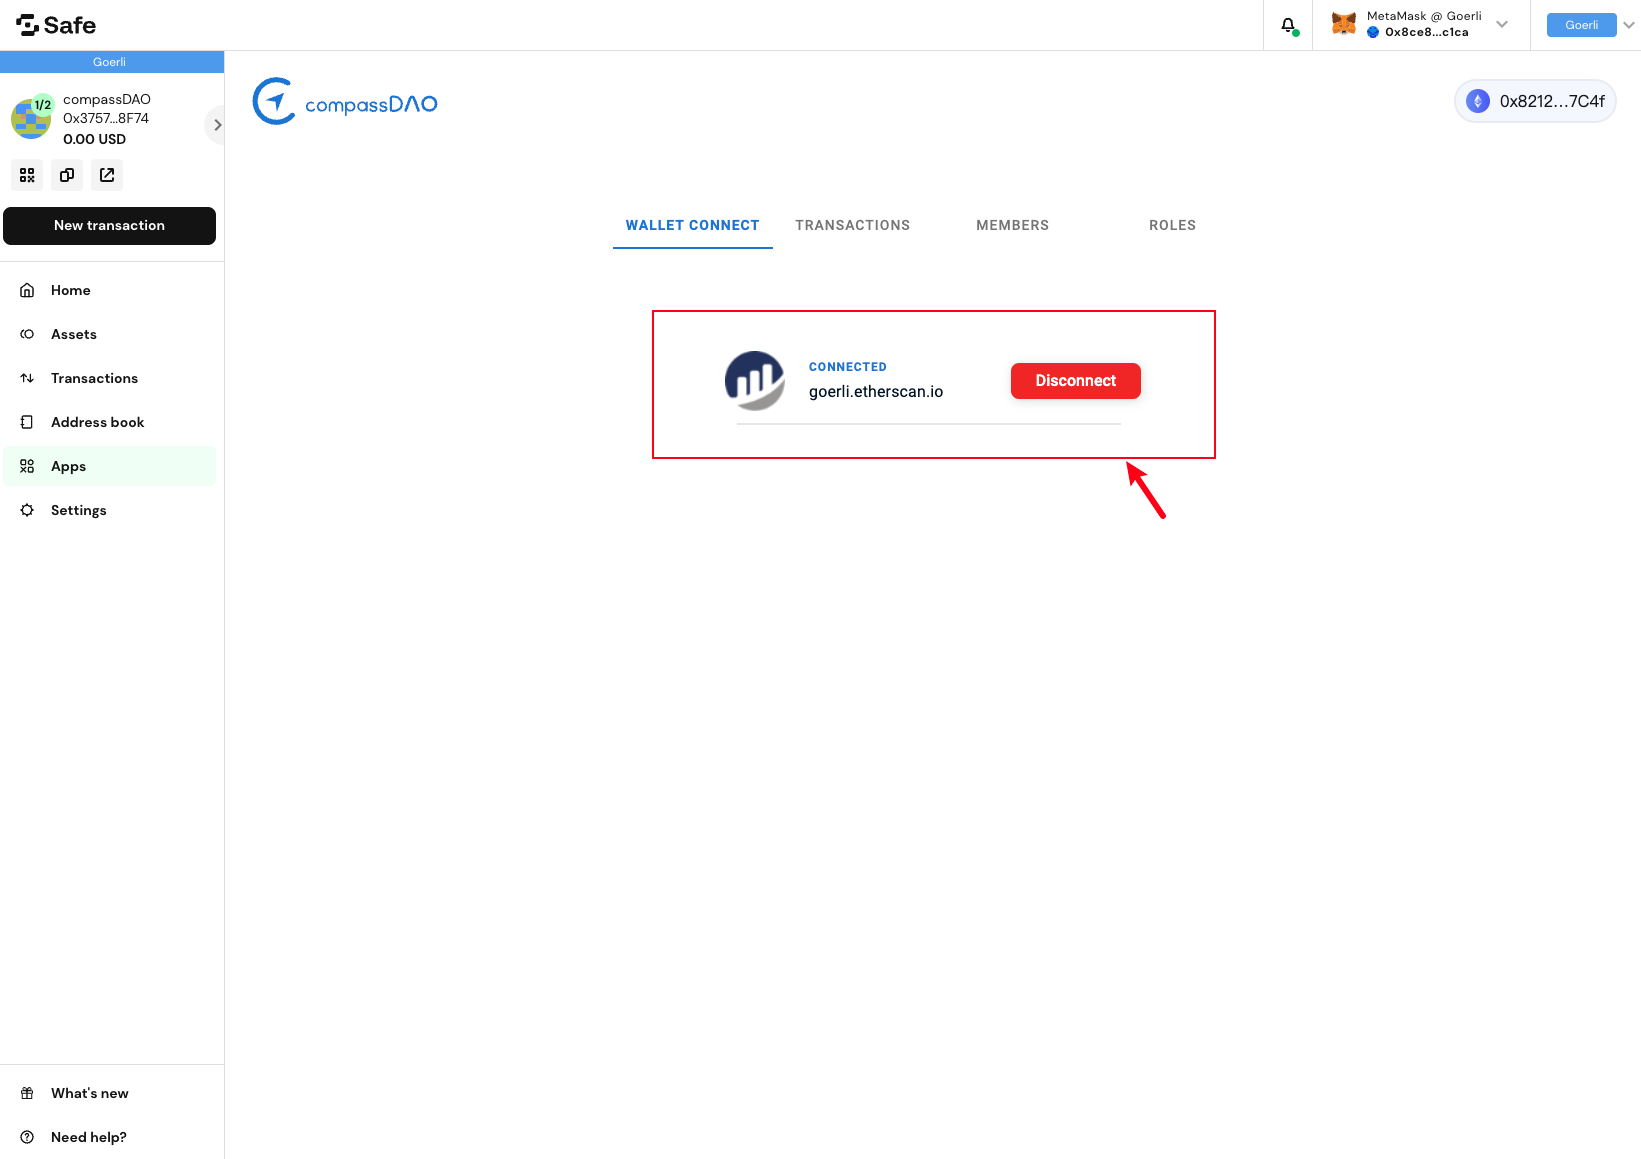
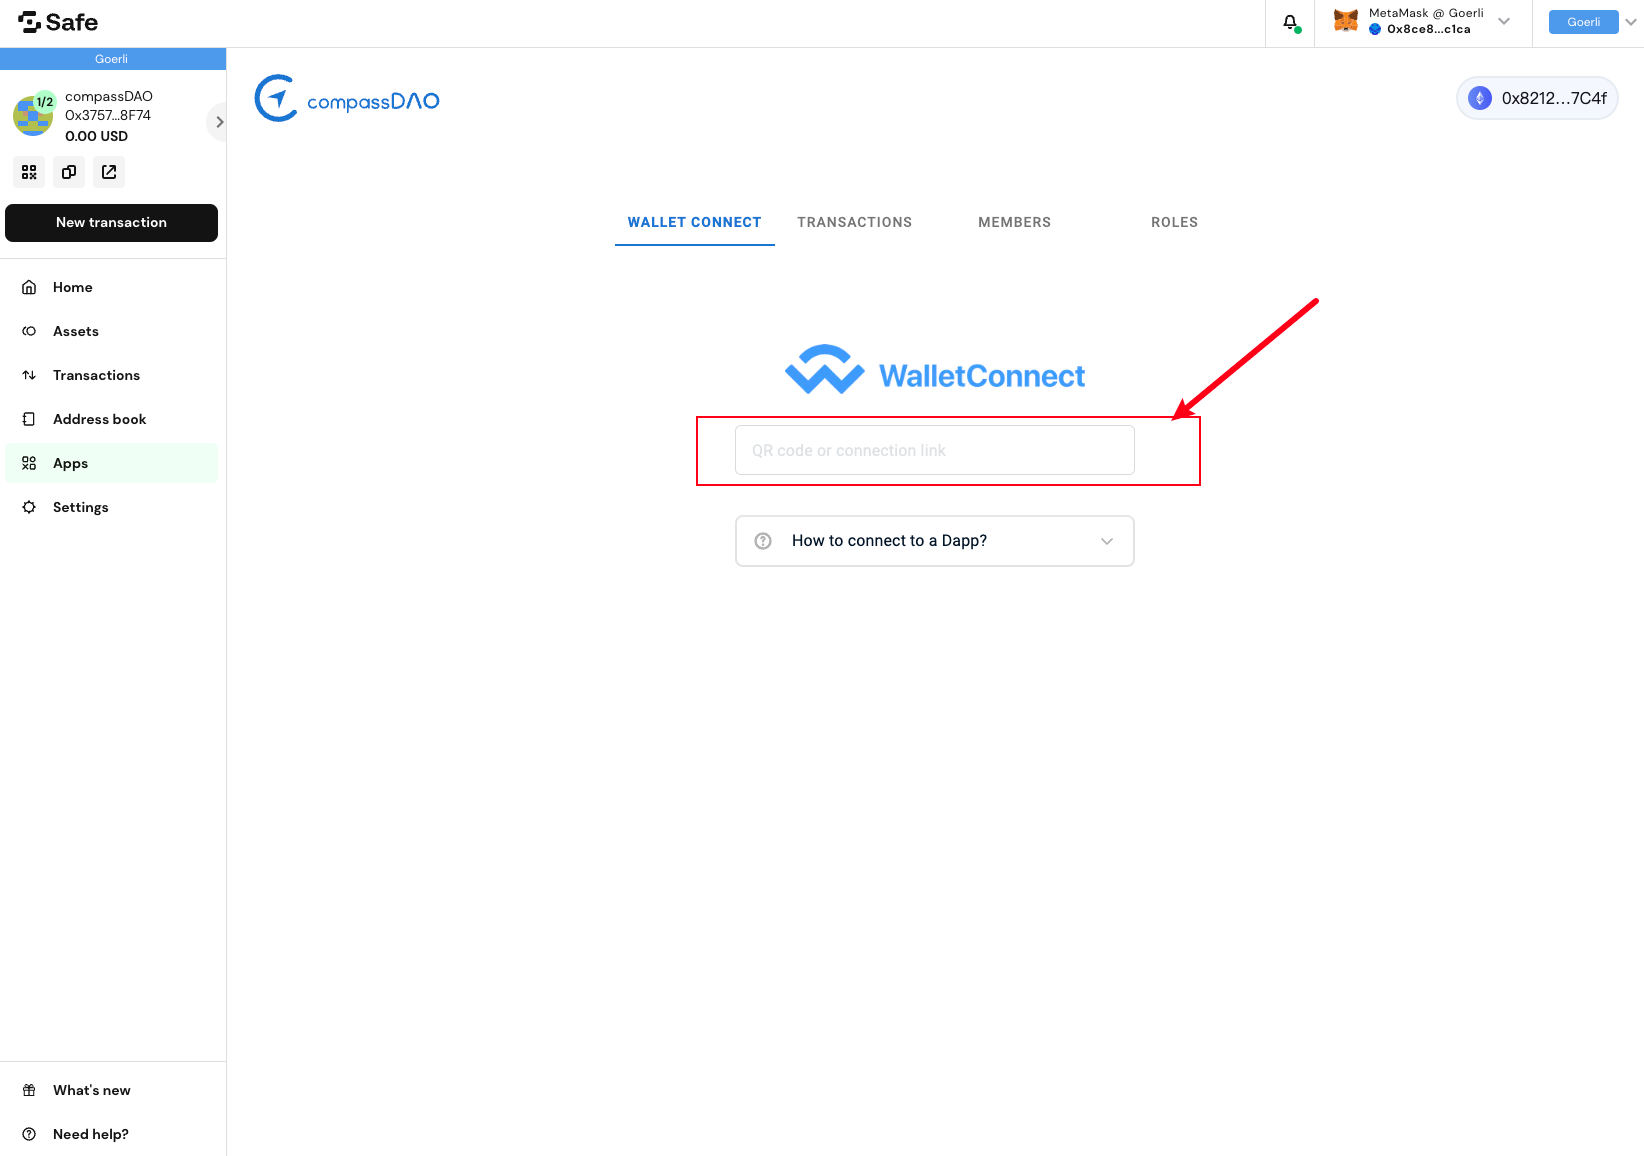
GitBook: [#44] No subject

diff --git a/how-to-use/compasssafe/README.md b/how-to-use/compasssafe/README.md
@@ -1,10 +1,10 @@
 # compassSafe
 
-compassStats is an&#x20;
+compassSafe is a protocol based on [Gnosis Safe](https://help.gnosis-safe.io/en/articles/3876456-what-is-gnosis-safe). As the most popular smart contract wallet, Safe supports standard multi-signature, and supports their users to enable advanced access-control logic with [Module](https://help.gnosis-safe.io/en/articles/4934378-what-is-a-module).
 
-&#x20;open data platform to create and share on-chain data analytics with javascript. Developers can customize preferred on-chain data using javascript for encapsulation, and everyone can consume the data. Currently, we support data monitoring and alerts, more features like API, SDK, Dashboard are on the way.
 
-Note: The product’s an early stage, we are currently working hard on updating the product and implementing more features. Please feel free to leave any suggestions and feedback in the Google Form here: [CompassStats feedback](https://forms.gle/FRWNXLsm4Ln27SSSA)
 
-## Try the product here: [https://compassdao.com](https://compassdao.com)
+Note: The product’s an early stage, we are currently working hard on improving the product and implementing more features. Please feel free to leave any suggestions and feedback in the Google Form here:&#x20;
+
+## The app link:&#x20;
 

diff --git a/how-to-use/compasssafe/interact-with-dapps.md b/how-to-use/compasssafe/interact-with-dapps.md
@@ -14,11 +14,11 @@ _**2.Then you'll get a pop-up window with a QR code, there's a line "Copy to cli
 
 _**3.Back to our app, go to "WALLET CONNECT" tab, paste the code you just copied in the input field.**_
 
-<figure><img src="../../.gitbook/assets/image.png" alt=""><figcaption></figcaption></figure>
+<figure><img src="../../.gitbook/assets/image (2).png" alt=""><figcaption></figcaption></figure>
 
 _**4.Now the app is connected, you can initiate any transaction in Dapps (e.g. Etherscan), and you'll get the request here.**_
 
-<figure><img src="../../.gitbook/assets/image (2).png" alt=""><figcaption></figcaption></figure>
+<figure><img src="../../.gitbook/assets/image (2) (2).png" alt=""><figcaption></figcaption></figure>
 
 _**5.Check carefully with all the details of the transaction, click on "CONFIRM" to sign it with your metamask.**_
 

diff --git a/how-to-use/compasssafe/disable-safe-module.md b/how-to-use/compasssafe/disable-safe-module.md
@@ -1,6 +1,6 @@
 # Disable Safe Module
 
-You are able to&#x20;
+You are able to disable safe modules anytime. We strongly recommend you <mark style="color:red;">**check the modules you enabled**</mark> from time to time, and delete the useless modules to avoid asset loss.
 
-
+<figure><img src="../../.gitbook/assets/image.png" alt=""><figcaption></figcaption></figure>
 
